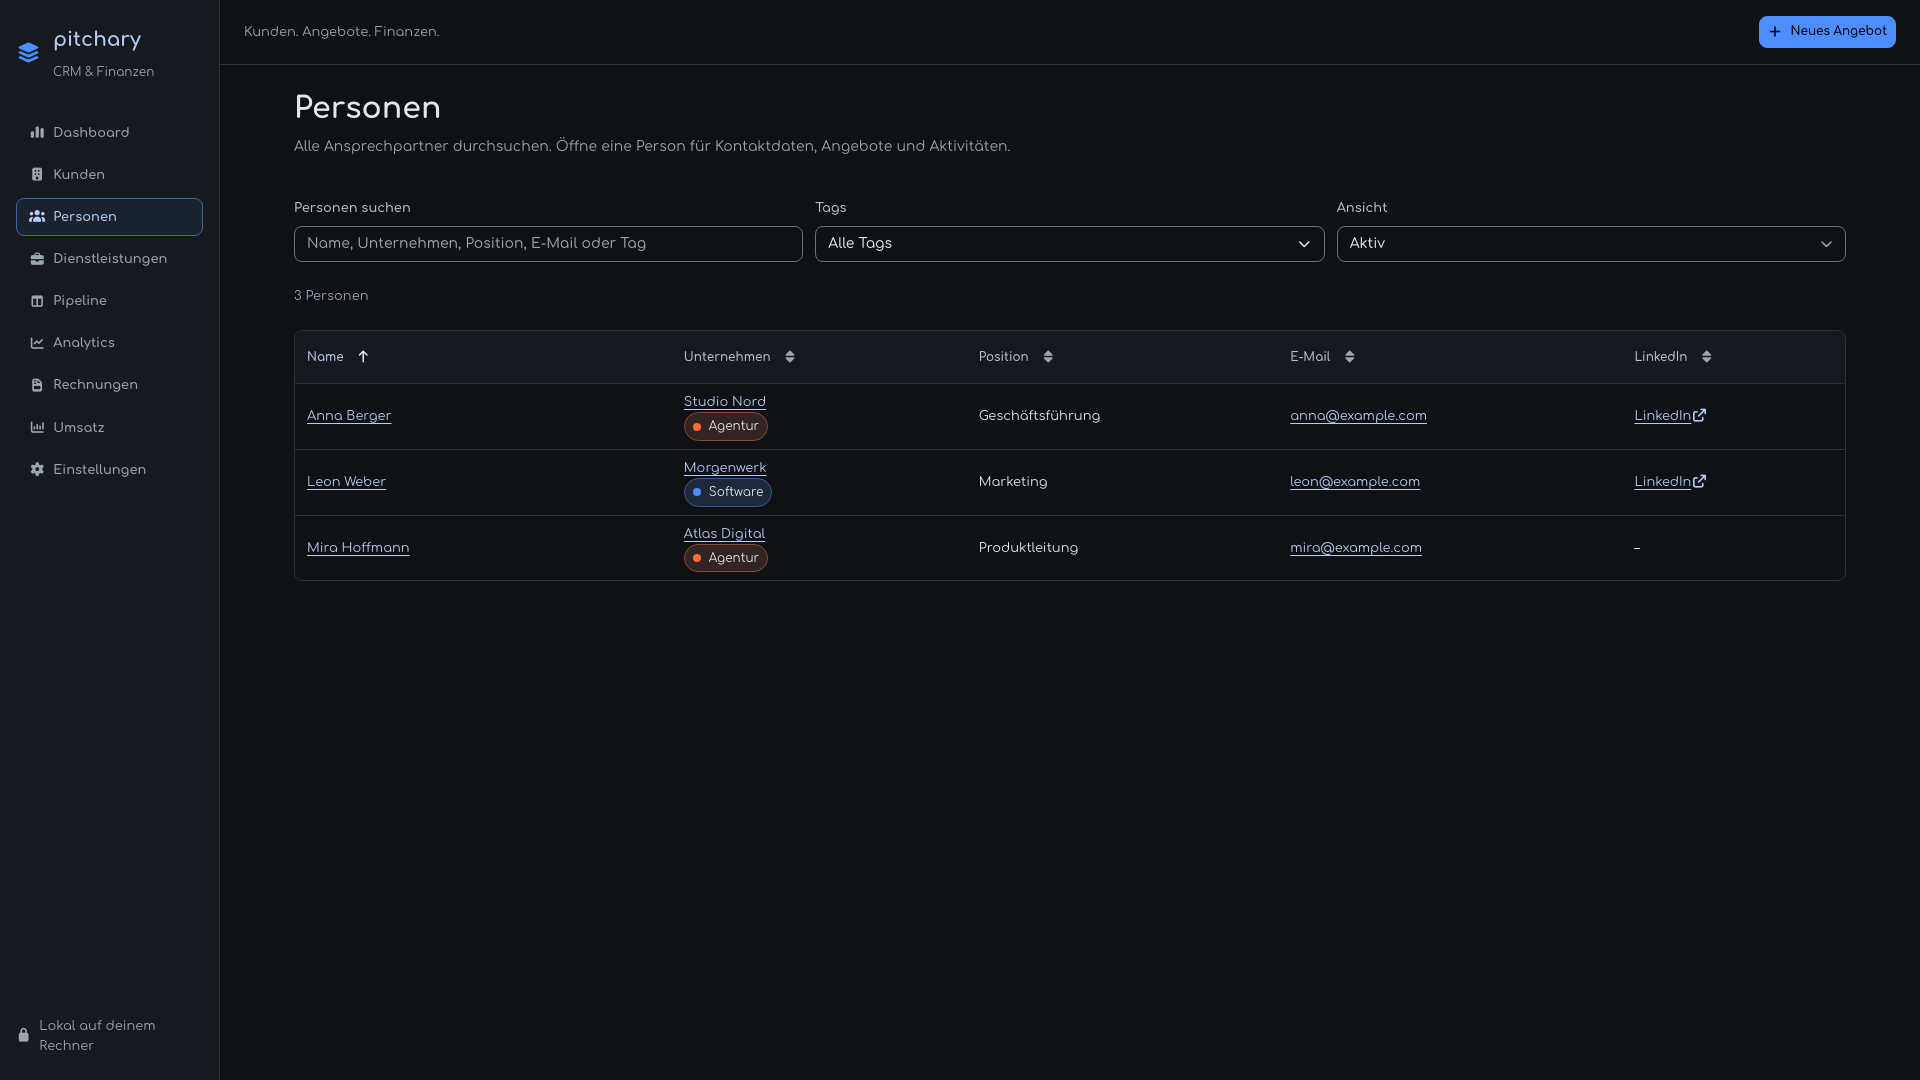
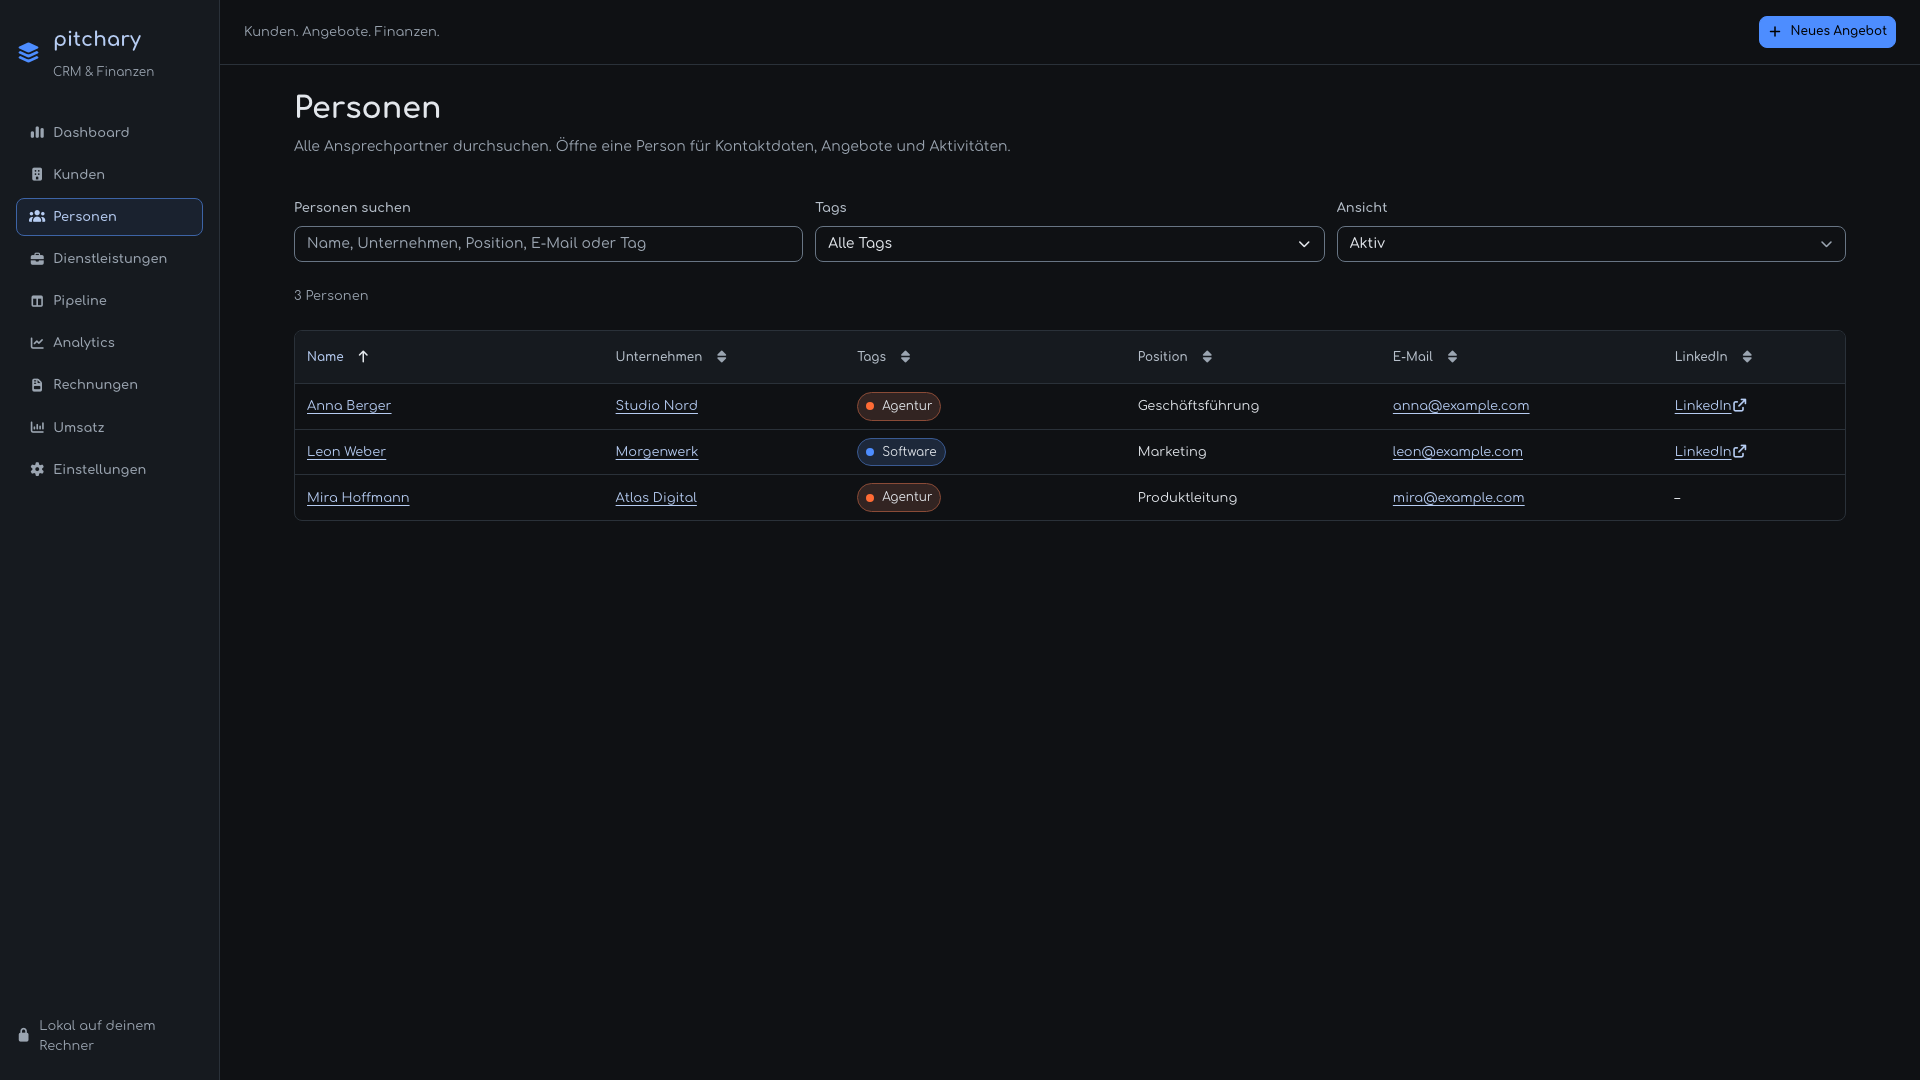
tags in table

diff --git a/tests/e2e/directory-sorting.spec.js b/tests/e2e/directory-sorting.spec.js
@@ -8,6 +8,7 @@ const customers = [
     name: "Zebra 10",
     customer_type: "lead",
     note: "Notiz 10",
+    tags: [{ id: "tag10", name: "Tag 10", color: "#4d8dff" }],
     created_at: "2026-01-02T10:00:00.000Z",
   },
   {
@@ -22,6 +23,7 @@ const customers = [
     name: "Zebra 2",
     customer_type: "customer",
     note: "Notiz 2",
+    tags: [{ id: "tag2", name: "Tag 2", color: "#4d8dff" }],
     created_at: "2026-11-01T10:00:00.000Z",
   },
   {
@@ -29,6 +31,7 @@ const customers = [
     name: "beta",
     customer_type: "lead",
     note: "Änderung",
+    tags: [{ id: "tag-aenderung", name: "Änderung", color: "#ff6b35" }],
     created_at: "2026-02-01T10:00:00.000Z",
   },
 ];
@@ -38,6 +41,7 @@ const employees = [
     name: "Zebra 10",
     customer_id: "company-a",
     customer_name: "Ähre GmbH",
+    customer_tags: [{ id: "tag10", name: "Tag 10", color: "#4d8dff" }],
     position: "Vertrieb 10",
     email: "z@example.test",
     linkedin: "https://www.linkedin.com/in/z/",
@@ -56,6 +60,7 @@ const employees = [
     name: "Zebra 2",
     customer_id: "company-c",
     customer_name: "Zebra 2",
+    customer_tags: [{ id: "tag2", name: "Tag 2", color: "#4d8dff" }],
     position: "Vertrieb 2",
     email: "anna2@example.test",
     linkedin: "https://www.linkedin.com/in/anna2/",
@@ -65,6 +70,9 @@ const employees = [
     name: "beta",
     customer_id: "company-d",
     customer_name: "beta GmbH",
+    customer_tags: [
+      { id: "tag-aenderung", name: "Änderung", color: "#ff6b35" },
+    ],
     position: "Änderungsmanagement",
     email: "anna10@example.test",
     linkedin: "https://www.linkedin.com/in/anna10/",
@@ -164,6 +172,11 @@ test("customers sort every data column in both directions and retain sorting acr
       ["beta", "Zebra 10", "Ähre", "Zebra 2"],
     ],
     [
+      "Tags",
+      ["beta", "Zebra 2", "Zebra 10", "Ähre"],
+      ["Zebra 10", "Zebra 2", "beta", "Ähre"],
+    ],
+    [
       "Notiz",
       ["beta", "Zebra 2", "Zebra 10", "Ähre"],
       ["Zebra 10", "Zebra 2", "beta", "Ähre"],
@@ -246,6 +259,11 @@ test("people sort all contact columns with missing values last and preserve link
       "Unternehmen",
       ["Zebra 10", "beta", "Zebra 2", "Änne"],
       ["Änne", "Zebra 2", "beta", "Zebra 10"],
+    ],
+    [
+      "Tags",
+      ["beta", "Zebra 2", "Zebra 10", "Änne"],
+      ["Zebra 10", "Zebra 2", "beta", "Änne"],
     ],
     [
       "Position",

diff --git a/public/js/views.js b/public/js/views.js
@@ -36,6 +36,7 @@ import {
 } from "./dom.js";
 const employeeLink = (name, id, fallback = "–") =>
   id && name ? link(name, "#/employees/" + id) : (name ?? fallback);
+const tagNames = (tags = []) => tags.map((tag) => tag.name).join(", ");
 function offerTable(rows) {
   return table(
     "Angebote",
@@ -424,6 +425,7 @@ export async function entityList(type, actions) {
               },
               r.customer_type === "customer" ? "Kunde" : "Lead",
             ),
+            tagList(r.tags) ?? "–",
           ]
         : []),
       el("span", { class: "note-text oj-small" }, r.note || "–"),
@@ -447,6 +449,7 @@ export async function entityList(type, actions) {
               value: (row) =>
                 row.customer_type === "customer" ? "Kunde" : "Lead",
             },
+            { label: "Tags", key: "tags", value: (row) => tagNames(row.tags) },
             { label: "Notiz", key: "note" },
             {
               label: "Angelegt",
@@ -722,6 +725,11 @@ export async function employeeList() {
           [
             { label: "Name", key: "name" },
             { label: "Unternehmen", key: "customer_name" },
+            {
+              label: "Tags",
+              key: "customer_tags",
+              value: (row) => tagNames(row.customer_tags),
+            },
             { label: "Position", key: "position" },
             { label: "E-Mail", key: "email" },
             { label: "LinkedIn", key: "linkedin" },
@@ -733,7 +741,6 @@ export async function employeeList() {
               "div",
               {},
               link(row.customer_name, "#/customers/" + row.customer_id),
-              tagList(row.customer_tags),
               row.customer_archived_at
                 ? el(
                     "p",
@@ -742,6 +749,7 @@ export async function employeeList() {
                   )
                 : null,
             ),
+            tagList(row.customer_tags) ?? "–",
             row.position || "–",
             row.email ? link(row.email, "mailto:" + row.email) : "–",
             row.linkedin

diff --git a/tests/e2e/customer-tags.spec.js b/tests/e2e/customer-tags.spec.js
@@ -226,6 +226,23 @@ test("company and person tag filters combine OR selection with search, sorting a
   const aChoice = page.getByRole("checkbox", { name: a.name, exact: true });
   const bChoice = page.getByRole("checkbox", { name: b.name, exact: true });
   await expect(table(page, "Kunden").locator("tbody tr")).toHaveCount(4);
+  await expect(table(page, "Kunden").getByRole("columnheader")).toHaveText([
+    "Name",
+    "Status",
+    "Tags",
+    "Notiz",
+    "Angelegt",
+    "Aktionen",
+  ]);
+  const customerRow = table(page, "Kunden")
+    .getByRole("row")
+    .filter({ hasText: customers[0].name });
+  await expect(
+    customerRow.locator("td").nth(2).getByText(a.name, { exact: true }),
+  ).toBeVisible();
+  await expect(
+    customerRow.locator("td").first().locator(".service-tag"),
+  ).toHaveCount(0);
   await table(page, "Kunden")
     .getByRole("button", { name: "Name", exact: true })
     .click();
@@ -264,6 +281,23 @@ test("company and person tag filters combine OR selection with search, sorting a
   await page.goto("/#/employees");
   const search = page.getByLabel("Personen suchen", { exact: true });
   await search.fill(prefix);
+  await expect(table(page, "Personen").getByRole("columnheader")).toHaveText([
+    "Name",
+    "Unternehmen",
+    "Tags",
+    "Position",
+    "E-Mail",
+    "LinkedIn",
+  ]);
+  const employeeRow = table(page, "Personen")
+    .getByRole("row")
+    .filter({ hasText: employees[0].name });
+  await expect(
+    employeeRow.locator("td").nth(2).getByText(a.name, { exact: true }),
+  ).toBeVisible();
+  await expect(
+    employeeRow.locator("td").nth(1).locator(".service-tag"),
+  ).toHaveCount(0);
   await trigger.click();
   await aChoice.check();
   await expect(table(page, "Personen").locator("tbody tr")).toHaveCount(3);

diff --git a/public/app.css b/public/app.css
@@ -756,15 +756,15 @@ th[aria-sort] .table-sort i {
   border-radius: var(--oj-radius-sm);
 }
 .customer-directory-table .oj-table {
-  min-inline-size: 52rem;
+  min-inline-size: 58rem;
 }
 .customer-directory-table td:first-child {
   min-inline-size: 12rem;
 }
-.customer-directory-table td:nth-child(3) {
+.customer-directory-table td:nth-child(4) {
   min-inline-size: 14rem;
 }
-.customer-directory-table td:nth-child(4) {
+.customer-directory-table td:nth-child(5) {
   white-space: nowrap;
 }
 .customer-contacts-table .oj-table {
@@ -777,7 +777,11 @@ th[aria-sort] .table-sort i {
   white-space: nowrap;
 }
 .employee-directory-table .oj-table {
-  min-inline-size: 52rem;
+  min-inline-size: 58rem;
+}
+.customer-directory-table td:nth-child(3),
+.employee-directory-table td:nth-child(3) {
+  min-inline-size: 10rem;
 }
 .employee-directory-table th {
   white-space: nowrap;

diff --git a/public/js/customer-branding.js b/public/js/customer-branding.js
@@ -1,5 +1,4 @@
 import { el, icon, link } from "./dom.js";
-import { tagList } from "./service-tags.js";
 let editorNumber = 0;
 export function customerLogo(row, { large = false } = {}) {
   const frame = el(
@@ -41,12 +40,7 @@ export function customerIdentity(row) {
     "div",
     { class: "customer-identity" },
     customerLogo(row),
-    el(
-      "div",
-      { class: "oj-stack" },
-      link(row.name, "#/customers/" + row.id),
-      tagList(row.tags),
-    ),
+    el("div", { class: "oj-stack" }, link(row.name, "#/customers/" + row.id)),
   );
 }
 export function logoEditor(row) {

diff --git a/docs/changelog.md b/docs/changelog.md
@@ -1,3 +1,7 @@
+# 0.6.2
+
+- Eigene sortierbare Tagspalte in der Kunden- und Personenübersicht.
+
 # 0.6.1
 
 - Automatische Kundenlogos funktionieren mit Fetchary 2.0.4 wieder, auch für lokale HTTP-Websites.
